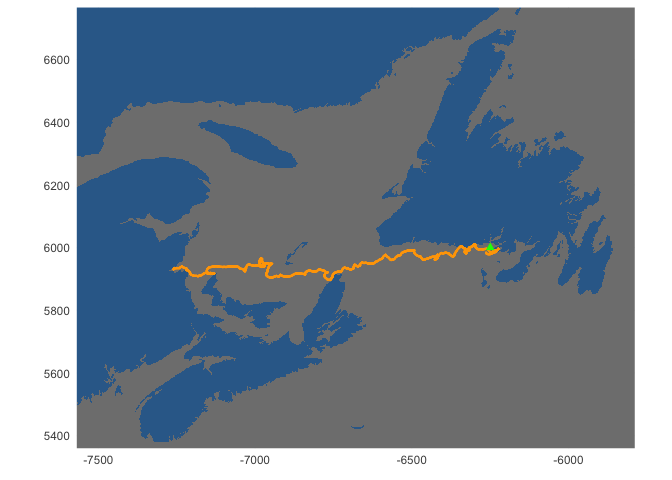
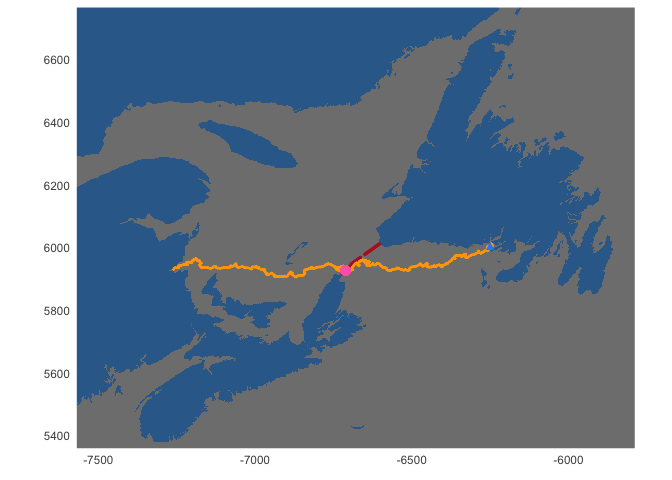
update with general ex in README

Changed region(s): [[0.25, 0.5, 0.75, 0.5938]]

diff --git a/README.md b/README.md
@@ -3,14 +3,24 @@
 
 # simfish
 
+simulate fish tracks with/without acoustic detections in semi-realistic
+environments
+
 <!-- badges: start -->
 
 [![Project Status: WIP – Initial development is in
 progress.](http://www.repostatus.org/badges/latest/wip.svg)](http://www.repostatus.org/#wip)
 <!-- badges: end -->
 
-simulate fish tracks with/without acoustic detections in semi-realistic
-environments
+{simfish} is an R package that facilitates simulation of fish tracks in
+semi-realistic environments (coastal oceans, fjords, and lakes). A
+user-supplied raster defining the water body - land boundaries is used
+to constrain simulated tracks. Fish movements are simulated (currently)
+as either a correlated random walk or a biased & correlated random walk,
+with the bias toward a defined Centre-of-Attraction. A potential
+function is used to ensure the tracks avoid land. The package can also
+be used to simulate detections of acoustically-tagged fish by acoustic
+receivers at user-defined locations.
 
 ## Installation
 
@@ -74,6 +84,15 @@ writeRaster(grad, file = "data/grad.grd", overwrite = TRUE)
 writeRaster(land, file = "data/land.grd", overwrite = TRUE)
 ```
 
+## Here is the land raster we’ve just created
+
+``` r
+
+raster::plot(land)
+```
+
+<img src="man/figures/README-map land-1.png" width="100%" />
+
 ## Set up the simulation
 
 ``` r
@@ -89,13 +108,14 @@ my.par <- sim_par(
   start.dt = ISOdatetime(2023,03,01,12,00,00, tz="UTC"), # start date-time
   time.step = 60, # time step in minutes
   coa = c(-6250, 6000), # location of centre-of-attraction for biased correlated random walk (can be NA)
-  nu = 0.1, # strength of attraction to CoA (range: 0 - infinity)
+  nu = 0.4, # strength of attraction to CoA (range: 0 - infinity)
   fl = 0.15, # fish fork length in m
-  rho = 0.95, # angular dispersion param for move directions (range 0 - 1)
+  rho = 0.85, # angular dispersion param for move directions (range 0 - 1)
   bl = 2, # move speed (body-lengths per s)
-  beta = c(-2, -2) # potential function params; must be -ve to keep off land;
+  beta = c(-2, -2), # potential function params; must be -ve to keep off land;
   # larger -ve numbers will cause the track to jump (unrealistically) big distances when encountering land,
   # possibly crossing narrow land masses
+  buffer = 0.5
 )
 ```
 
@@ -108,22 +128,58 @@ out <- sim_fish(id = 1,
                 mpar = my.par)
 ```
 
-## Visualise simulated track
+## Now simulate acoustic detections on a receiver array - we’ll use the Ocean Tracking Network’s Cabot Strait receiver line
 
 ``` r
-## convert raster to stars object
+tmp <- tempfile(fileext = ".csv")
+download.file("https://members.oceantrack.org//geoserver/wfs?request=getfeature&service=wfs&outputFormat=CSV&typename=otn:stations_receivers&cql_filter=collectioncode+EQ+%27CBS%27",
+              destfile = tmp)
+recLocs <- read_csv(tmp) %>%
+  filter(deploy_date >= "2020-01-01")
 
+xy <- recLocs %>%
+  st_as_sf(., coords = c("stn_long", "stn_lat"), crs = 4326) %>%
+  st_transform(crs = "+proj=merc +datum=WGS84 +units=km") %>%
+  st_coordinates() %>%
+  as.data.frame()
+recLocs <- bind_cols(recLocs, xy) %>%
+  select(id = station_name, x = X, y = Y) %>%
+  mutate(z = 1)
+
+## add receiver locations to data
+x$recLocs <- recLocs
+
+## simulate detections of a V12 acoustic tag
+my.par$pdrf <- c(5, -0.01) # parameters (intercept, slope) from a logistic regression of distance on detection rate
+out <- out %>%
+  sim_detect(data = x)
+```
+
+## Visualise simulated track & detections
+
+``` r
 ggplot() +
   stars::geom_stars(data = stars::st_as_stars(x$land)) +
+  geom_point(data = x$recLocs,
+              aes(x, y), 
+              shape = 19, 
+              colour = "firebrick",
+              alpha = 0.6,
+             size = 0.5) +
   geom_point(data = out$sim, 
              aes(x, y), 
              size = 0.1, 
              colour = "orange") +
+  geom_point(data = out$detect,
+             aes(recv_x, recv_y),
+             shape = 19,
+             size = 3,
+             colour = "hotpink") +
   geom_point(data = with(out$params, data.frame(x = coa[1], y = coa[2])),
              aes(x, y),
              shape = 17,
              size = 2, 
-             colour = "green") +
+             colour = "dodgerblue") +
   theme_minimal() +
   theme(legend.position = "none") + 
   labs(x = element_blank(),
